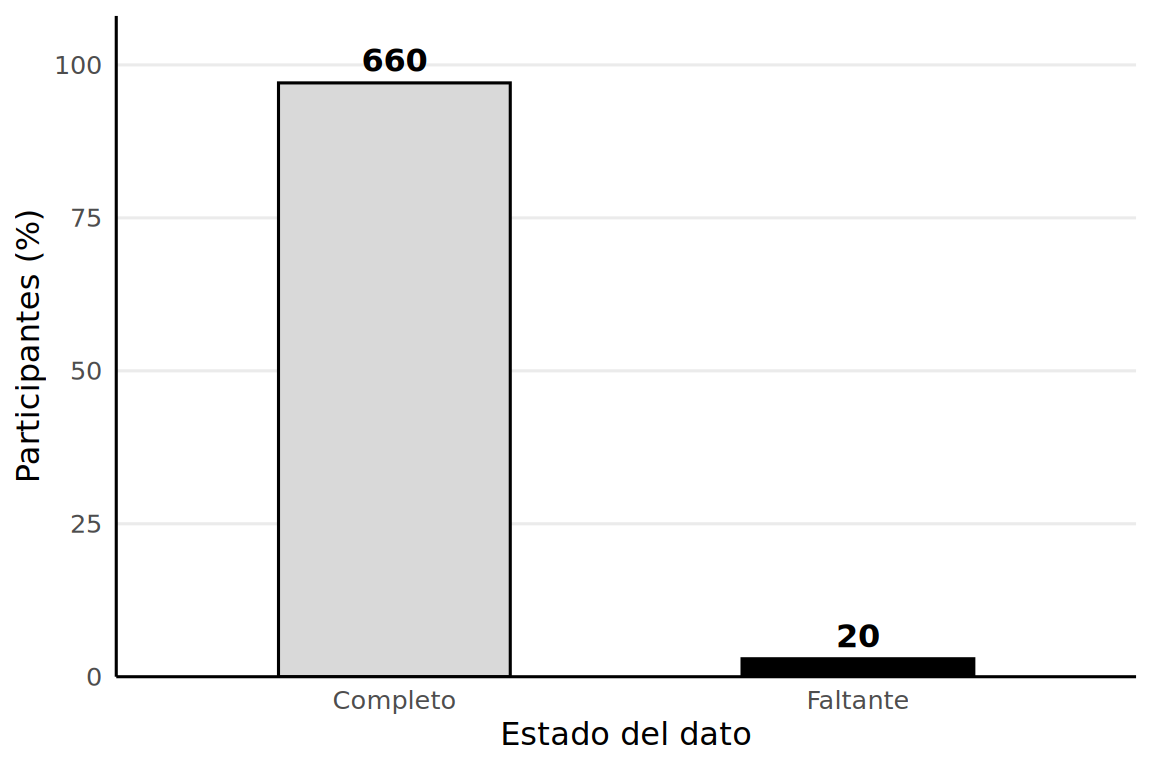
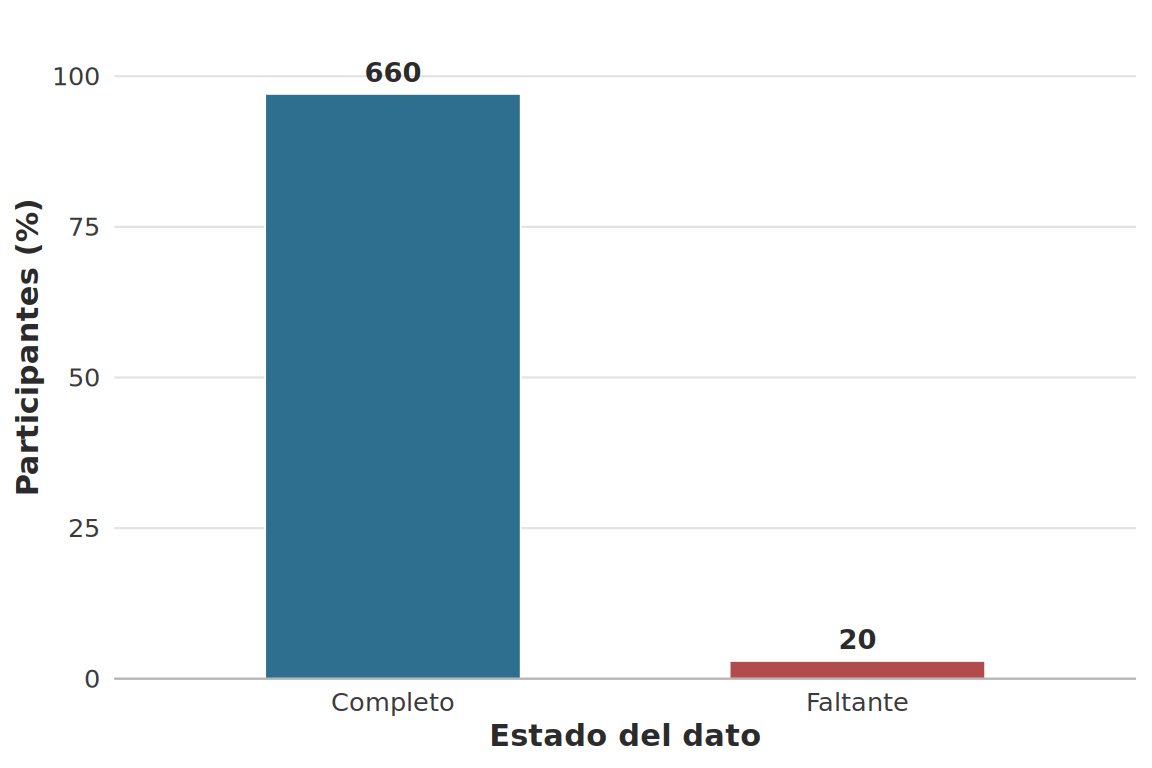
Migrate correlation heatmap to ggplot2 and refine plot styling
Replaces corrplot with a ggplot2 geom_tile heatmap so every plot in the
EDA now shares one theme. Adds a shared academic color palette
(eda_colors) with "Missing"/"Faltante" consistently highlighted in
terracotta across all plots, refines theme_eda() typography/gridlines,
and adds a mean marker to boxplots.

Changed region(s): [[0.0, 0.0312, 0.9688, 0.9375], [0.4062, 0.9375, 0.6562, 0.9688]]

diff --git a/docs/eda.html b/docs/eda.html
@@ -984,7 +984,7 @@ mediante un enfoque SEM o Bayesiano).</p>
 <div id="correlaciones-entre-las-variables-continuas" class="section level3 hasAnchor" number="2.2.5">
 <h3><span class="header-section-number">2.2.5</span> Correlaciones entre las variables continuas<a href="eda.html#correlaciones-entre-las-variables-continuas" class="anchor-section" aria-label="Anchor link to header"></a></h3>
 <div class="figure" style="text-align: center"><span style="display:block;" id="fig:correlaciones"></span>
-<img src="eda-apoyo-social-entrapment_files/figure-html/correlaciones-1.png" alt="Matriz de correlación (pares completos) entre apoyo social y entrapment" width="480" />
+<img src="eda-apoyo-social-entrapment_files/figure-html/correlaciones-1.png" alt="Matriz de correlación (pares completos) entre apoyo social y entrapment" width="528" />
 <p class="caption">
 Figure 2.23: Matriz de correlación (pares completos) entre apoyo social y entrapment
 </p>
